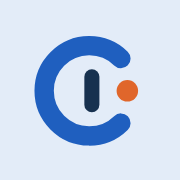
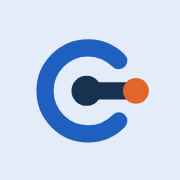
Símbolo revisado: C com nó e conexão, traços de mesma espessura, versão para tema escuro
Claude-Session: https://claude.ai/code/session_01UCgfMjddBdERqaHNSp96XB

diff --git a/index.html b/index.html
@@ -49,7 +49,7 @@ button,input,select{font:inherit;color:inherit}
 .brand{display:flex;flex-direction:row;align-items:center;gap:8px;text-decoration:none;color:var(--fg);flex-shrink:0}
 .brand b{font-size:18px;letter-spacing:-.01em}
 .brand b span{color:var(--accent)}
-.logo{width:32px;height:32px;flex-shrink:0}
+.logo{width:32px;height:32px;flex-shrink:0;color:var(--fg)}
 .bt{display:flex;flex-direction:column}
 .brand small{font-size:13px;color:var(--muted);letter-spacing:.02em}
 .search{flex:1;min-width:0;display:flex}
@@ -323,7 +323,7 @@ ul.plain{margin:0;padding-left:18px}
 
 <header class="top">
   <div class="top-in">
-    <a class="brand" href="#inicio" aria-label="IC Connect, início"><svg class="logo" viewBox="0 0 64 64" aria-hidden="true" focusable="false"><path d="M46 17A21 21 0 1 0 46 47" fill="none" stroke="#1f5fbf" stroke-width="9" stroke-linecap="round"/><rect x="29" y="22" width="7" height="20" rx="3.5" fill="#17314f"/><circle cx="49" cy="32" r="5" fill="#e0662b"/></svg><span class="bt"><b>IC <span>Connect</span></b><small>Protótipo acadêmico — não oficial</small></span></a>
+    <a class="brand" href="#inicio" aria-label="IC Connect, início"><svg class="logo" viewBox="0 0 64 64" aria-hidden="true" focusable="false"><path d="M45 18A20 20 0 1 0 45 46" fill="none" stroke="#1f5fbf" stroke-width="8" stroke-linecap="round"/><line x1="30" y1="32" x2="52" y2="32" stroke="currentColor" stroke-width="8" stroke-linecap="round"/><circle cx="30" cy="32" r="7" fill="currentColor"/><circle cx="53" cy="32" r="6" fill="#e0662b"/></svg><span class="bt"><b>IC <span>Connect</span></b><small>Protótipo acadêmico — não oficial</small></span></a>
     <form class="search" id="searchForm" role="search">
       <input id="q" type="search" aria-label="Buscar oportunidades" placeholder="Buscar vaga ou tema" autocomplete="off">
     </form>
